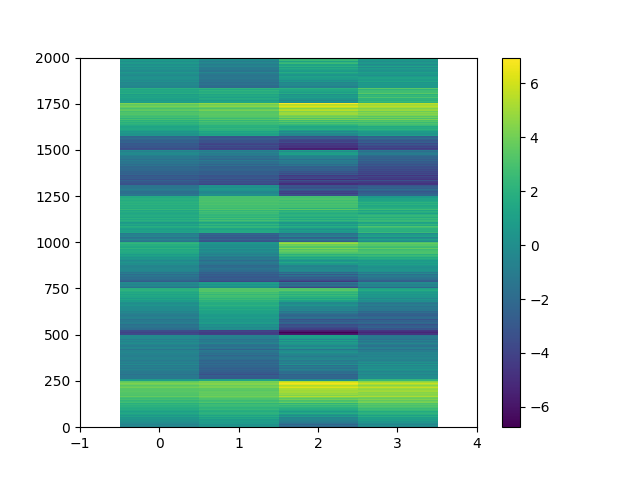
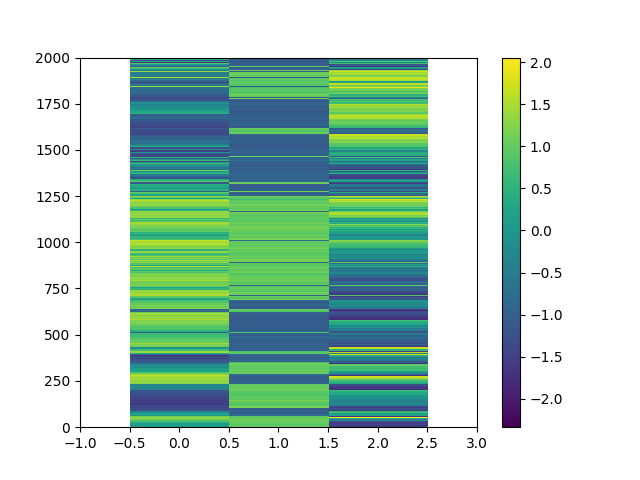
fixed sorted bags

diff --git a/fastICA/main.py b/fastICA/main.py
@@ -57,9 +57,6 @@ def signals_gen():
     S /= st_dev
     array_print(M=S, min_value=-1.5, max_value=1.5, name="standardized noisy signal matrix")
 
-    S1, S2 = transform(S)
-    array_print(M=S2, min_value=-1.5, max_value=1.5, name="clustered standardized noisy signal matrix")
-
     return S
 
 
@@ -123,6 +120,13 @@ def transform(X):
     return res[0], np.array(res[1])
 
 
+def transform_by_permutation(X, permutation):
+    X_ = list()
+    for i in permutation:
+        X_.append(X[i])
+    return np.array(X_)
+
+
 def test():
     xarr = np.array([
         [1.0, 2.0, 3.0],
@@ -162,6 +166,9 @@ def solve():
 
     # Get signals matrix
     S = signals_gen()
+
+    S1, S2 = transform(S)
+    array_print(M=S2, min_value=-1.5, max_value=1.5, name="clustered standardized noisy signal matrix")
 
     # Make a mixing matrix
     A = np.array([[1.0, 1.0, 1.0], [0.5, 2.0, 1.0], [1.5, 1.0, 2.0], [2.0, 1.0, 1.0]])
@@ -204,6 +211,9 @@ def calculate_and_plot(X, n_components, S=None, w=None):
 
     S_1, S_2 = transform(S_)
     array_print(M=S_2, name="clustered reconstructed signals")
+
+    S2 = transform_by_permutation(S, S_1)
+    array_print(M=S2, name="clustered true signals")
 
     # Get estimated mixing matrix
     A_ = ica.mixing_

diff --git a/fastICA/README.md b/fastICA/README.md
@@ -48,16 +48,16 @@ Mixing matrix:
 #### Clustered reconstruct signals matrix:
 
 ![image.png](https://github.com/grifguitar/ica-connected-subgraph/blob/main/fastICA/images_1/frame_10.png)
-![image.png](https://github.com/grifguitar/ica-connected-subgraph/blob/main/fastICA/images_1/frame_5.png)
+![image.png](https://github.com/grifguitar/ica-connected-subgraph/blob/main/fastICA/images_1/frame_11.png)
 
 #### Reconstruct observations matrix:
 
-![image.png](https://github.com/grifguitar/ica-connected-subgraph/blob/main/fastICA/images_1/frame_11.png)
+![image.png](https://github.com/grifguitar/ica-connected-subgraph/blob/main/fastICA/images_1/frame_12.png)
 ![image.png](https://github.com/grifguitar/ica-connected-subgraph/blob/main/fastICA/images_1/frame_8.png)
 
 #### Total result:
 
-![image.png](https://github.com/grifguitar/ica-connected-subgraph/blob/main/fastICA/images_1/frame_12.png)
+![image.png](https://github.com/grifguitar/ica-connected-subgraph/blob/main/fastICA/images_1/frame_13.png)
 
 ## Запуск 2
 
